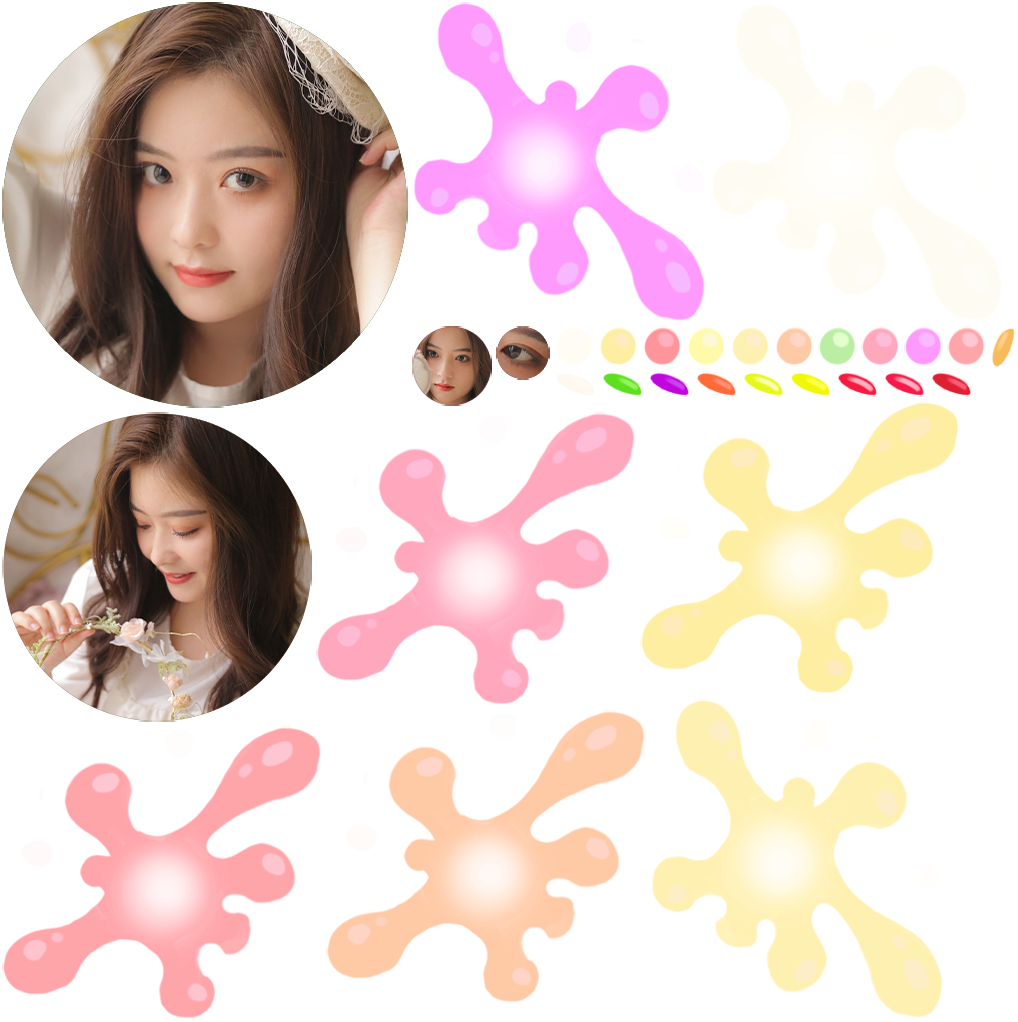
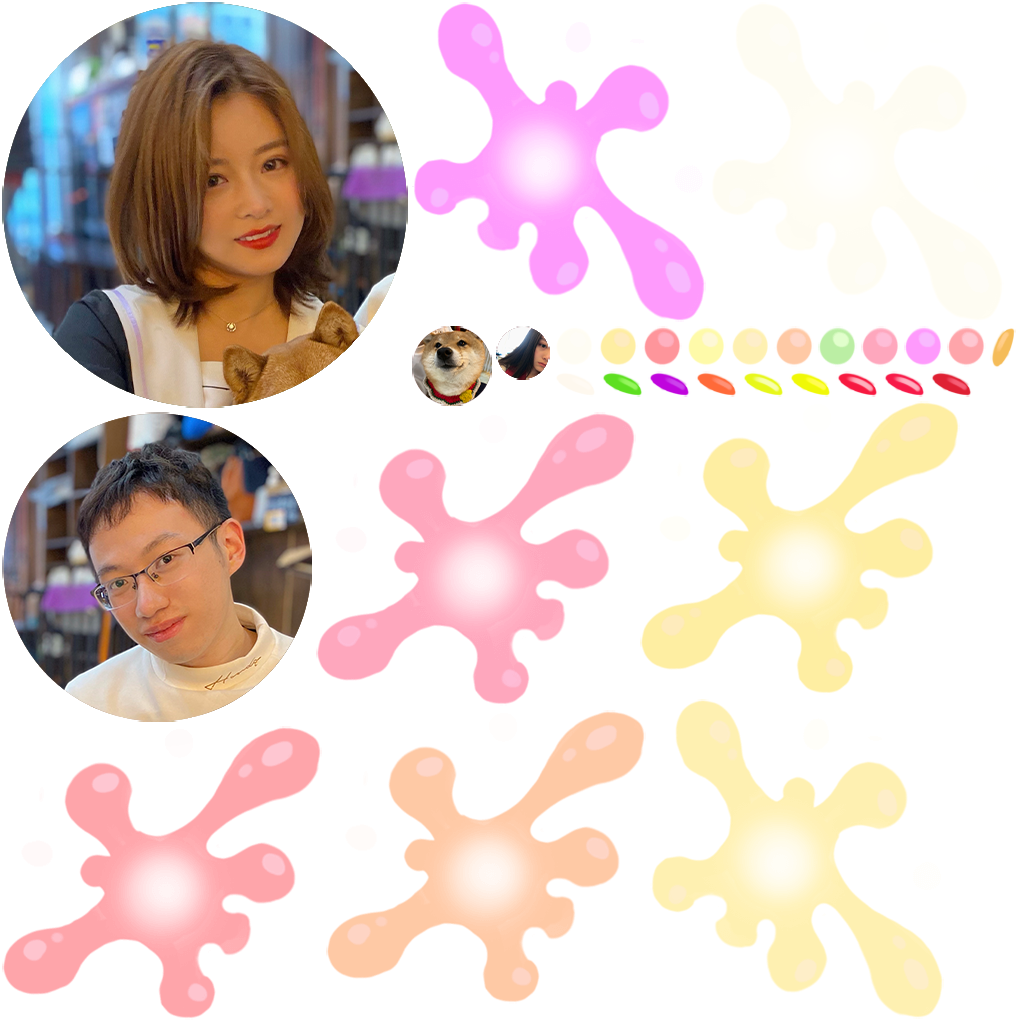
v2.0

Changed region(s): [[0.0, 0.0, 0.4263, 0.728], [0.3959, 0.3033, 0.5481, 0.3943]]

diff --git a/index.html b/index.html
@@ -4,7 +4,7 @@
 <head>
     <meta charset="utf-8">
 
-    <title>合成大欧派</title>
+    <title>狗子他爹和狗子他妈</title>
 
     <!--http://www.html5rocks.com/en/mobile/mobifying/-->
     <meta name="viewport" content="width=device-width,user-scalable=no,initial-scale=1, minimum-scale=1,maximum-scale=1" />
@@ -109,7 +109,7 @@
             //        console.log("window.navigator.language",window.navigator.language);
 
             if (window.navigator.language == "zh-CN" || window.navigator.language == "zh-cn") {
-                document.title = "合成超超超超级可爱漂亮的婷婷小姐~";
+                document.title = "狗子他爹和狗子他妈";
             } 
 
 
